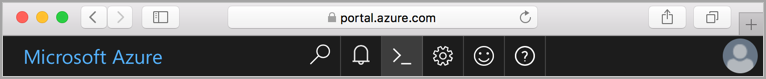
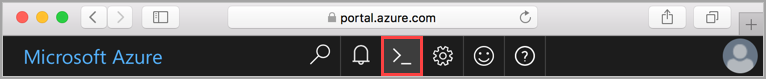
red box and rework local install part

Changed region(s): [[0.4804, 0.4557, 0.5705, 0.962]]

diff --git a/data-explorer/includes/cloud-shell-try-it.md b/data-explorer/includes/cloud-shell-try-it.md
@@ -1,10 +1,9 @@
 
 
-The [Azure Cloud Shell](../articles/cloud-shell/quickstart.md) (in public preview) is a web-based shell that is preconfigured to simplify using Azure tools. With Cloud Shell, you always have the most up-to-date version of the tools available and you don’t have to install, update or separately log in. You can also open the Cloud Shell from the Azure portal by clicking the ![Cloud Shell](./media/cloud-shell-try-it/cs-button.png) button on the menu in the upper-right of the [Azure portal](https://portal.azure.com).
+The [Azure Cloud Shell](../articles/cloud-shell/quickstart.md) (in public preview) is a web-based shell that is preconfigured to simplify using Azure tools. With Cloud Shell, you always have the most up-to-date version of the tools available and you don’t have to install, update or separately log in. You can also open the Cloud Shell from the Azure portal by clicking the **Cloud Shell** button on the menu in the upper-right of the [Azure portal](https://portal.azure.com).
 
 [![Cloud Shell](./media/cloud-shell-try-it/cloud-shell.png)](https://portal.azure.com)
 
-If you choose to install and use the CLI locally, you need to log in to your Azure subscription with the [az login](/cli/azure/#login) command and follow the on-screen directions.
 
 
 
